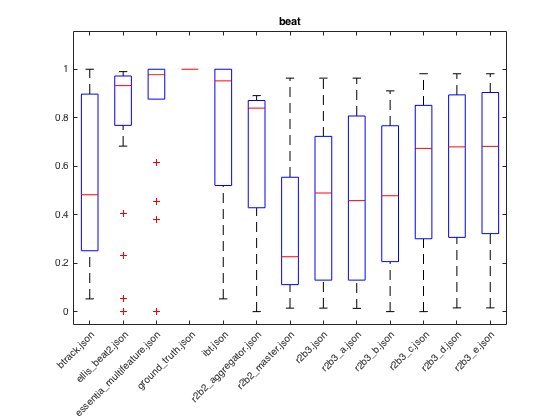
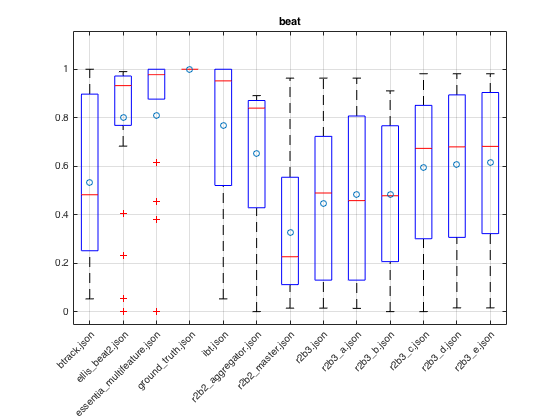
updated plots.m to show mean (and saved these to plots.md)

diff --git a/plots.m b/plots.m
@@ -3,7 +3,7 @@
 test_files = dir( strcat( 'results/*.json') );
 
 
-clear main_plot_matrix;
+clear official_plot_matrix;
 clear beat_plot_matrix;
 clear phase_plot_matrix;
 clear tempo_plot_matrix;
@@ -29,11 +29,21 @@ for fname = [test_files']
 			official = X.(key{1}).official.array;
 			phase = X.(key{1}).phase.array;
 
-			main_plot_matrix(:,count) = official;
+			official_plot_matrix(:,count) = official;
+			official_mean(count) = mean(official);
+
 			beat_plot_matrix(:,count) = beat;
+			beat_mean(count) = mean(beat);
+			
 			phase_plot_matrix(:,count) = phase;
+			phase_mean(count) = mean(phase);
+			
 			tempo_plot_matrix(:,count) = tempo;
+			tempo_mean(count) = mean(tempo);
+			
 			sum_of_tempo_plot_matrix(:,count) = sum_of_tempos;
+			sum_of_tempo_mean(count) = mean(sum_of_tempos);
+			
 			count = count + 1;
 
 		else
@@ -45,21 +55,29 @@ for fname = [test_files']
 end
 
 
-main_plot_matrix
+official_plot_matrix
 length(test_files')
 
 
 figure
 
-boxplot(main_plot_matrix);
+boxplot(official_plot_matrix);
 title ('official scores');
 set(gca,'xtick',[1:length(test_files')],'xticklabel',{test_files.name}, 'XTickLabelRotation',45)
+grid on
+hold on
+scatter([1:length(official_mean)],[official_mean],'marker','o')
+hold off
 
 figure
 
 boxplot(beat_plot_matrix);
 title ('beat');
 set(gca,'xtick',[1:length(test_files')],'xticklabel',{test_files.name}, 'XTickLabelRotation',45)
+grid on
+hold on
+scatter([1:length(beat_mean)],[beat_mean],'marker','o')
+hold off
 
 
 figure
@@ -67,6 +85,10 @@ figure
 boxplot(phase_plot_matrix);
 title ('phase');
 set(gca,'xtick',[1:length(test_files')],'xticklabel',{test_files.name}, 'XTickLabelRotation',45)
+grid on
+hold on
+scatter([1:length(phase_mean)],[phase_mean],'marker','o')
+hold off
 
 
 figure
@@ -74,6 +96,10 @@ figure
 boxplot(tempo_plot_matrix);
 title ('tempo');
 set(gca,'xtick',[1:length(test_files')],'xticklabel',{test_files.name}, 'XTickLabelRotation',45)
+grid on
+hold on
+scatter([1:length(tempo_mean)],[tempo_mean],'marker','o')
+hold off
 
 
 figure
@@ -81,4 +107,8 @@ figure
 boxplot(sum_of_tempo_plot_matrix);
 title ('sum of tempos (generous scores)');
 set(gca,'xtick',[1:length(test_files')],'xticklabel',{test_files.name}, 'XTickLabelRotation',45)
+grid on
+hold on
+scatter([1:length(sum_of_tempo_mean)],[sum_of_tempo_mean],'marker','o')
+hold off
 
